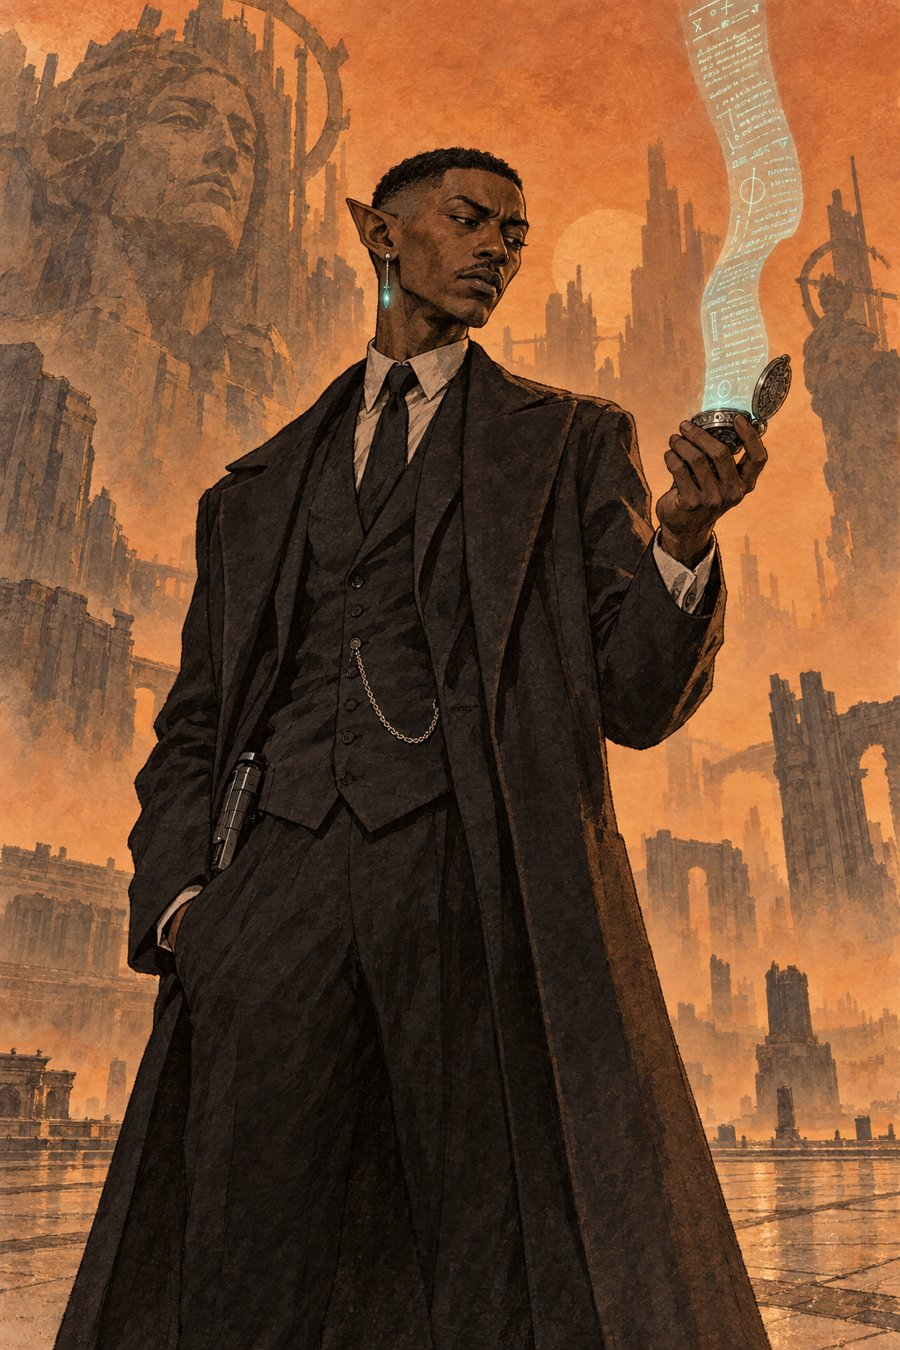
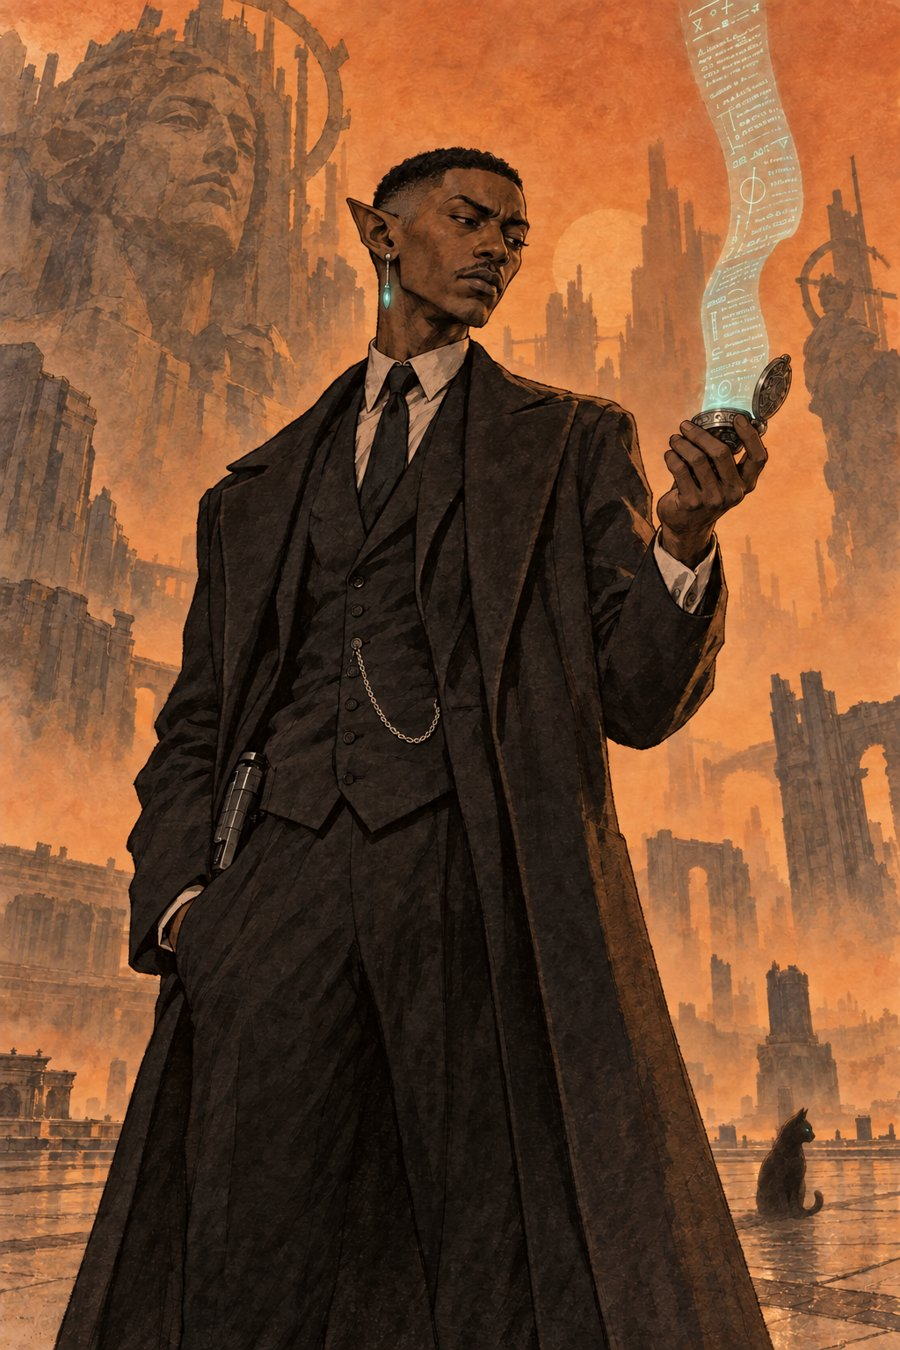
Characters: Shony Hemlock's black cat familiar

diff --git a/public/characters/shony-hemlock/index.html b/public/characters/shony-hemlock/index.html
@@ -65,7 +65,7 @@
     </div>
 
     <figure class="portrait">
-      <img src="portrait.jpg" alt="Shony Hemlock in his elf guise: a thin Black elf in a dark three-piece suit and long overcoat, a silver drop earring with a teal stone, reading the ribbon of glowing words that rises from his pocket watch in an orange dust haze." width="900" height="1350">
+      <img src="portrait.jpg?v=3" alt="Shony Hemlock in his elf guise: a thin Black elf in a dark three-piece suit and long overcoat, a silver drop earring with a teal stone, reading the ribbon of glowing words that rises from his pocket watch in an orange dust haze. A small black cat sits on the paving behind him." width="900" height="1350">
     </figure>
   </section>
 
@@ -204,7 +204,7 @@
           <tr><td><b><i>Catapult</i></b></td><td>1st</td><td>1 action</td><td>60 ft.</td><td><span class="hit">DEX 15</span></td><td>3d8 bludgeoning</td><td>S</td></tr>
           <tr><td><b><i>Chromatic Orb</i></b></td><td>1st</td><td>1 action</td><td>90 ft.</td><td><span class="hit">+7</span></td><td>3d8</td><td>V/S/M</td></tr>
           <tr><td><b><i>Feather Fall</i></b></td><td>1st</td><td>1 reaction</td><td>60 ft.</td><td>&ndash;</td><td>Utility</td><td>1 min. V/M</td></tr>
-          <tr><td><b><i>Find Familiar</i></b> <span class="tag">Ritual</span></td><td>1st</td><td>1 hour</td><td>10 ft.</td><td>&ndash;</td><td>Summoning</td><td>V/S/M</td></tr>
+          <tr><td><b><i>Find Familiar</i></b> <span class="tag">Ritual</span></td><td>1st</td><td>1 hour</td><td>10 ft.</td><td>&ndash;</td><td>Summoning</td><td>V/S/M. His familiar is a black cat</td></tr>
           <tr><td><b><i>Tenser's Floating Disk</i></b> <span class="tag">Ritual</span></td><td>1st</td><td>1 action, +10 min. as ritual</td><td>30 ft.</td><td>&ndash;</td><td>Movement</td><td>1 hour. V/S/M. Cast as a ritual</td></tr>
         </tbody>
       </table>
@@ -237,7 +237,7 @@
         <div>
           <div class="feat"><h3>Core Wizard Traits<span class="src">PHB 2024, p. 165</span></h3></div>
           <div class="feat"><h3>Spellcasting<span class="src">PHB 2024, p. 165</span></h3></div>
-          <div class="feat"><h3>Ritual Adept<span class="src">PHB 2024, p. 166</span></h3><div class="pick">Find Familiar, Tenser's Floating Disk</div></div>
+          <div class="feat"><h3>Ritual Adept<span class="src">PHB 2024, p. 166</span></h3><div class="pick">Familiar: a black cat</div><div class="pick">Find Familiar, Tenser's Floating Disk</div></div>
           <div class="feat"><h3>Arcane Recovery<span class="src">PHB 2024, p. 166</span></h3><p>When you finish a Short Rest, you can recover expended spell slots. The spell slots can have a combined level equal to no more than <b>1</b>, and none of the slots can be level 6 or higher. Once per Long Rest.</p></div>
         </div>
       </div>

diff --git a/sources/dave/2026-11-21-shony-hemlock.md b/sources/dave/2026-11-21-shony-hemlock.md
@@ -7,3 +7,7 @@ Dave's statements in chat while the character sheet page was being built. Verbat
 > Let's pivot to Ryan Gosling in Blade Runner 2049 but a thin and precise elf (disguised) make him african american, lithe, studious, suspicious. give him a cool earring and a stylish suit, I liked your waste coat concept.  he isn't a bladesinger yet so don't hint that.  his handcross bow is reskinned as a futuristic pistol, and his spell focus is his pocket watch which is a 'scroller' mounted with lexical magic.
 
 Sheet numbers come from the D&D Beyond record (character 173865408) as shown in a screen recording of 2026-11-21: Changeling, Rogue 3 (Inquisitive) / Wizard 1.
+
+Added 2026-11-22:
+
+> Give him a black cat as a familiar who is often around but not too prominent.
